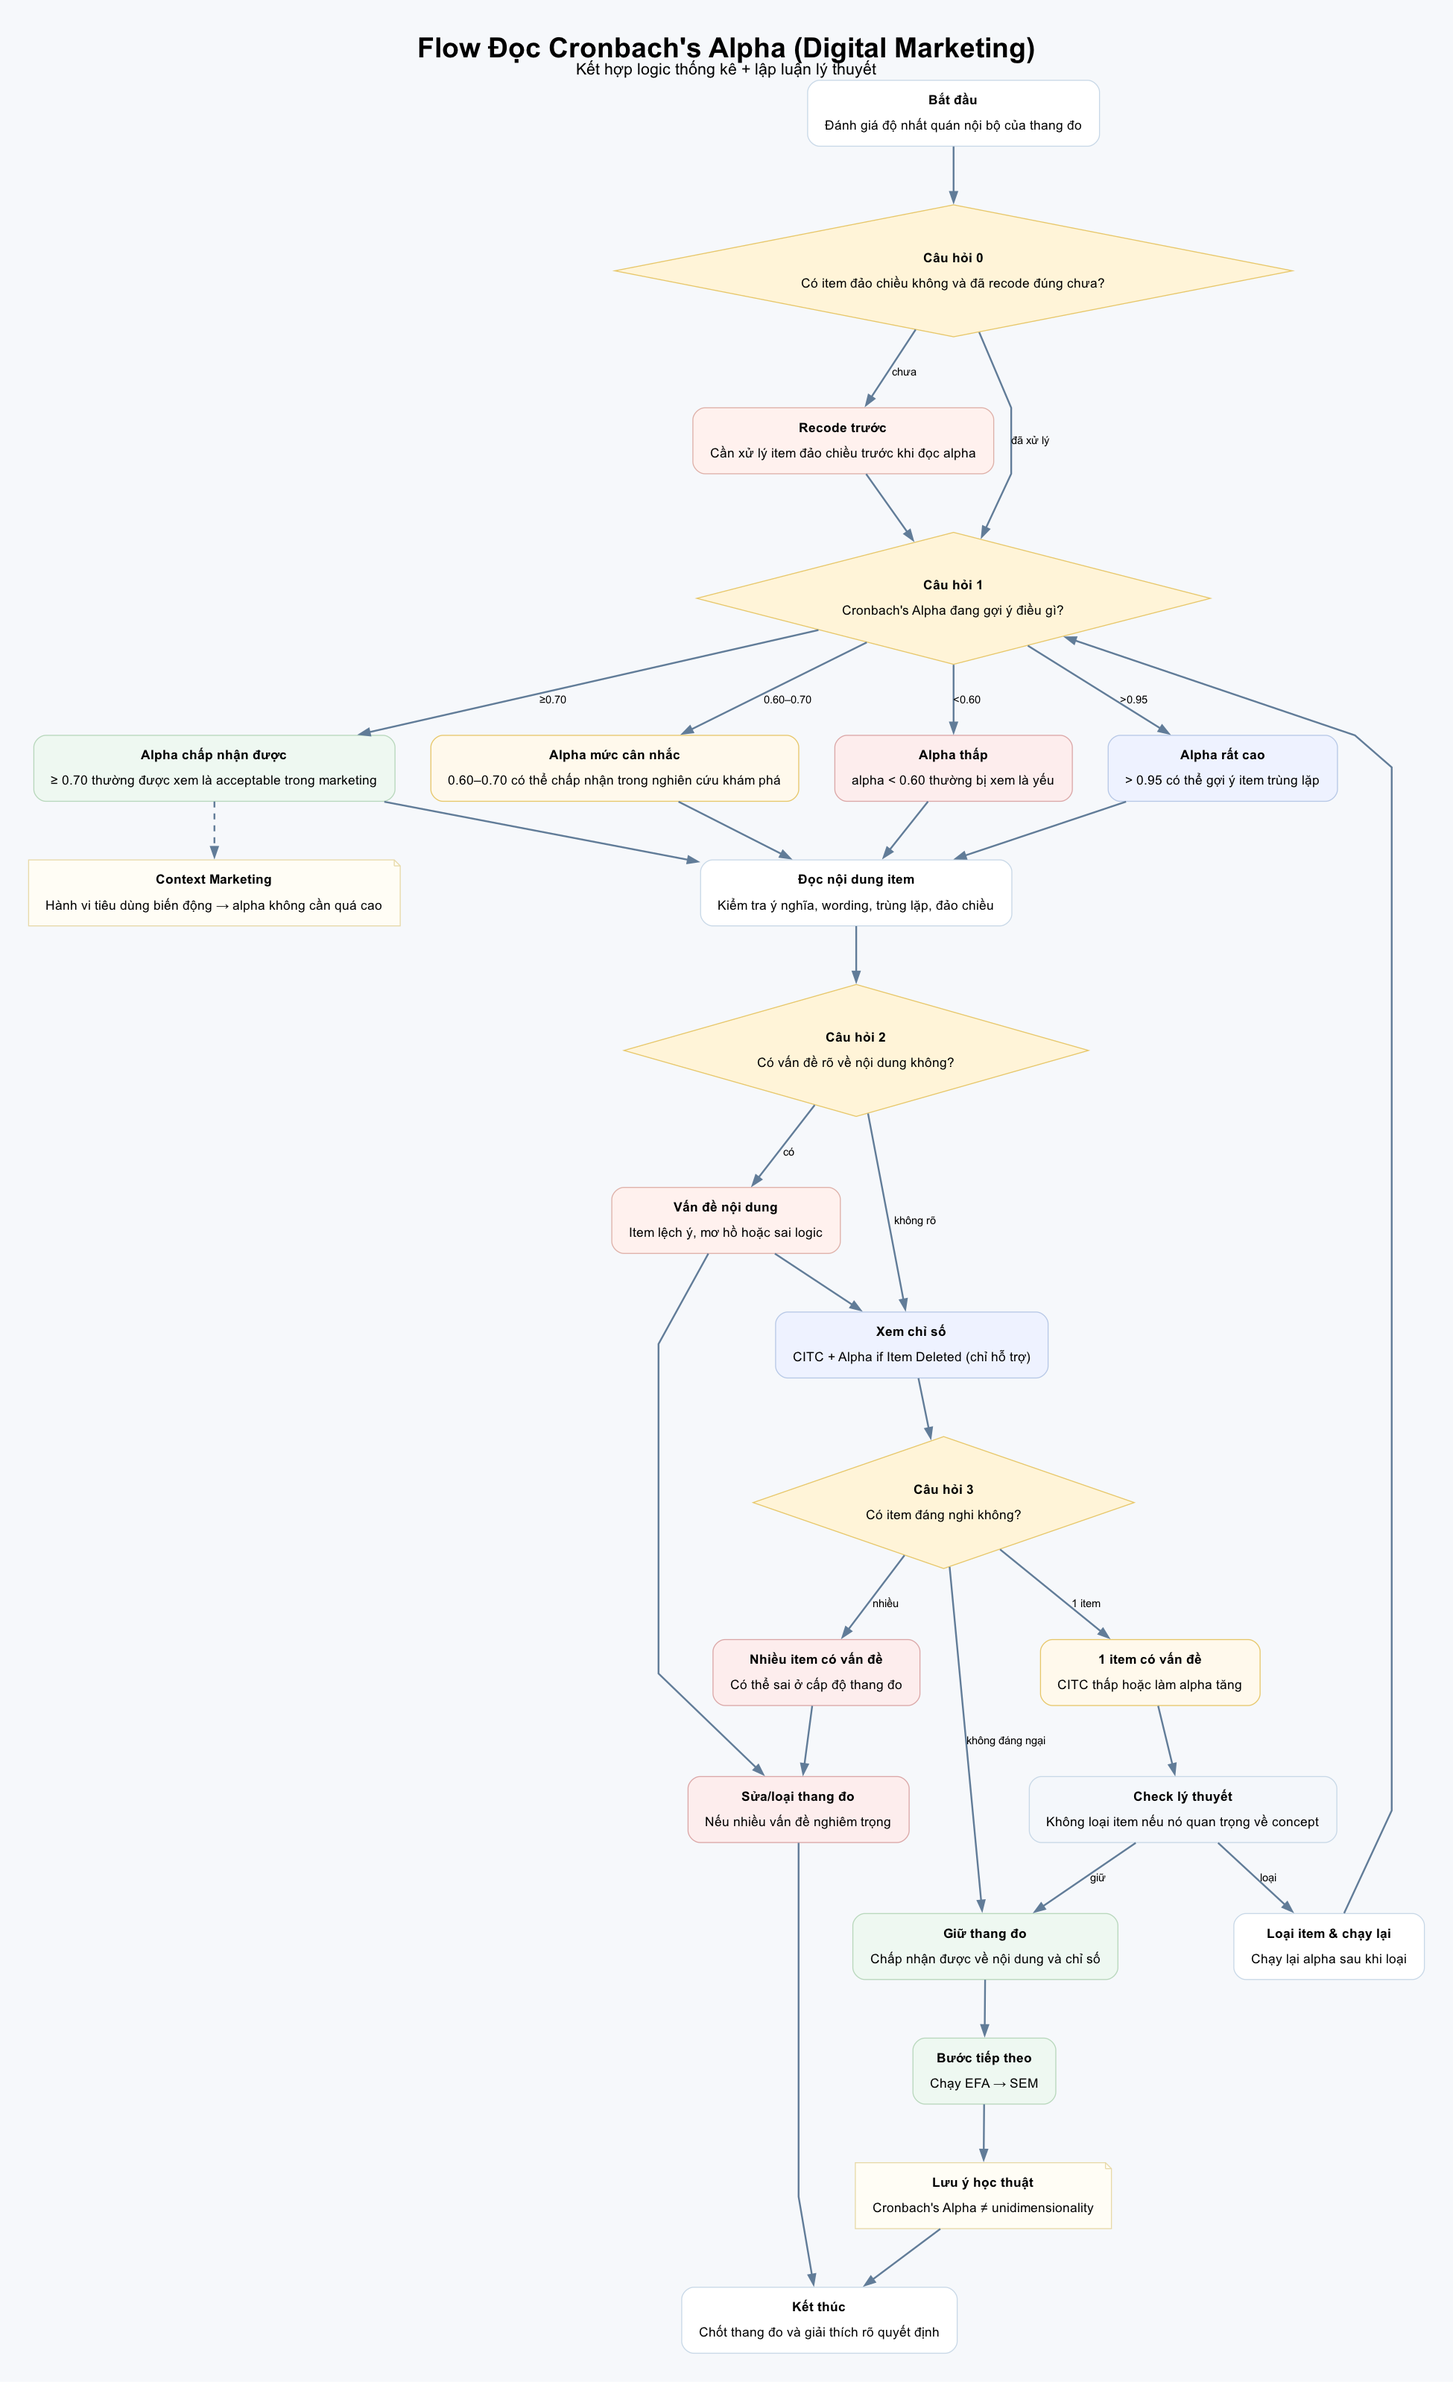
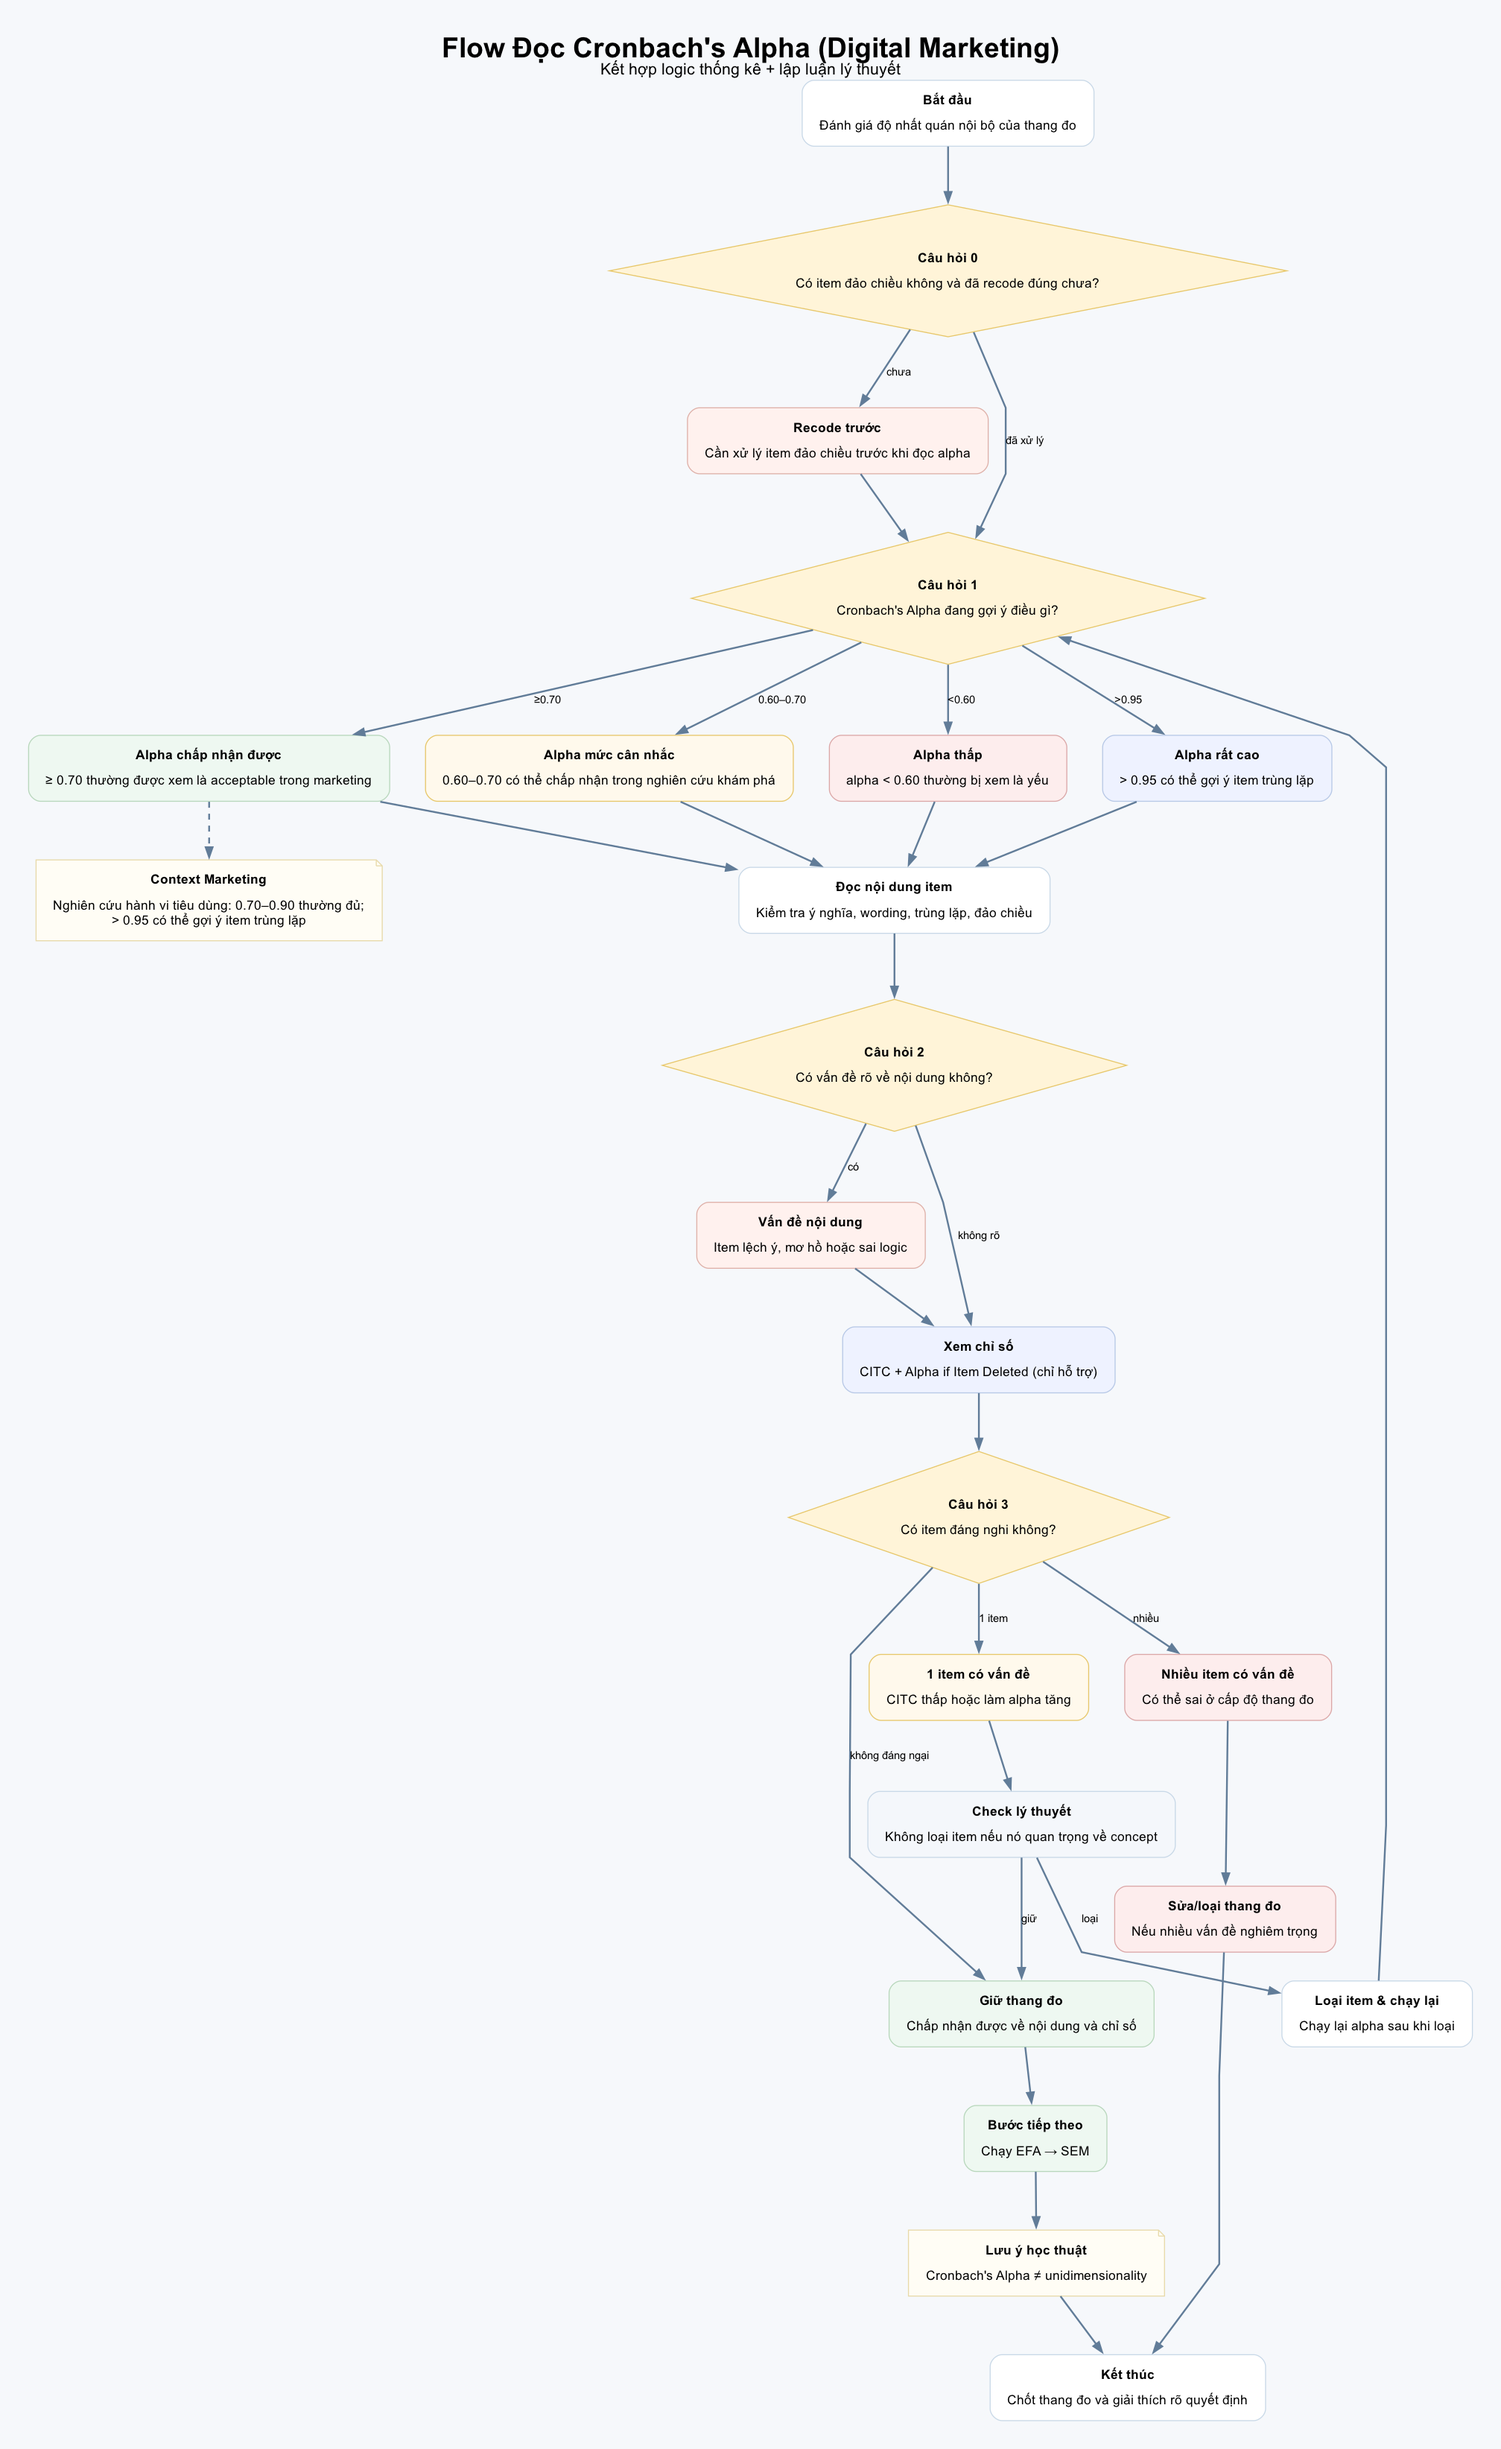
.

Changed region(s): [[0.0308, 0.0, 0.9846, 0.9909], [0.8, 0.96, 0.8308, 0.9909], [0.5538, 0.96, 0.5846, 0.9909]]

diff --git a/scripts/generate_cronbach_flow.py b/scripts/generate_cronbach_flow.py
@@ -148,7 +148,7 @@ dot.node("note",
 
 dot.node("marketing_note",
     label=html_label("Context Marketing",
-        "Hành vi tiêu dùng biến động → alpha không cần quá cao"),
+        "Nghiên cứu hành vi tiêu dùng: 0.70–0.90 thường đủ;\n> 0.95 có thể gợi ý item trùng lặp"),
     shape="note", style="filled", fillcolor="#FFFDF5", color="#E7D9A8")
 
 dot.node("end",
@@ -180,7 +180,6 @@ dot.edge("review", "content_q")
 dot.edge("content_q", "content_issue", label="có")
 dot.edge("content_q", "stats", label="không rõ")
 dot.edge("content_issue", "stats")
-
 dot.edge("stats", "stats_q")
 dot.edge("stats_q", "one_item", label="1 item")
 dot.edge("stats_q", "many_item", label="nhiều")
@@ -193,7 +192,6 @@ dot.edge("theory", "keep", label="giữ")
 dot.edge("rerun", "alpha_q")
 
 dot.edge("many_item", "revise")
-dot.edge("content_issue", "revise")
 
 dot.edge("keep", "next_step")
 dot.edge("next_step", "note")
